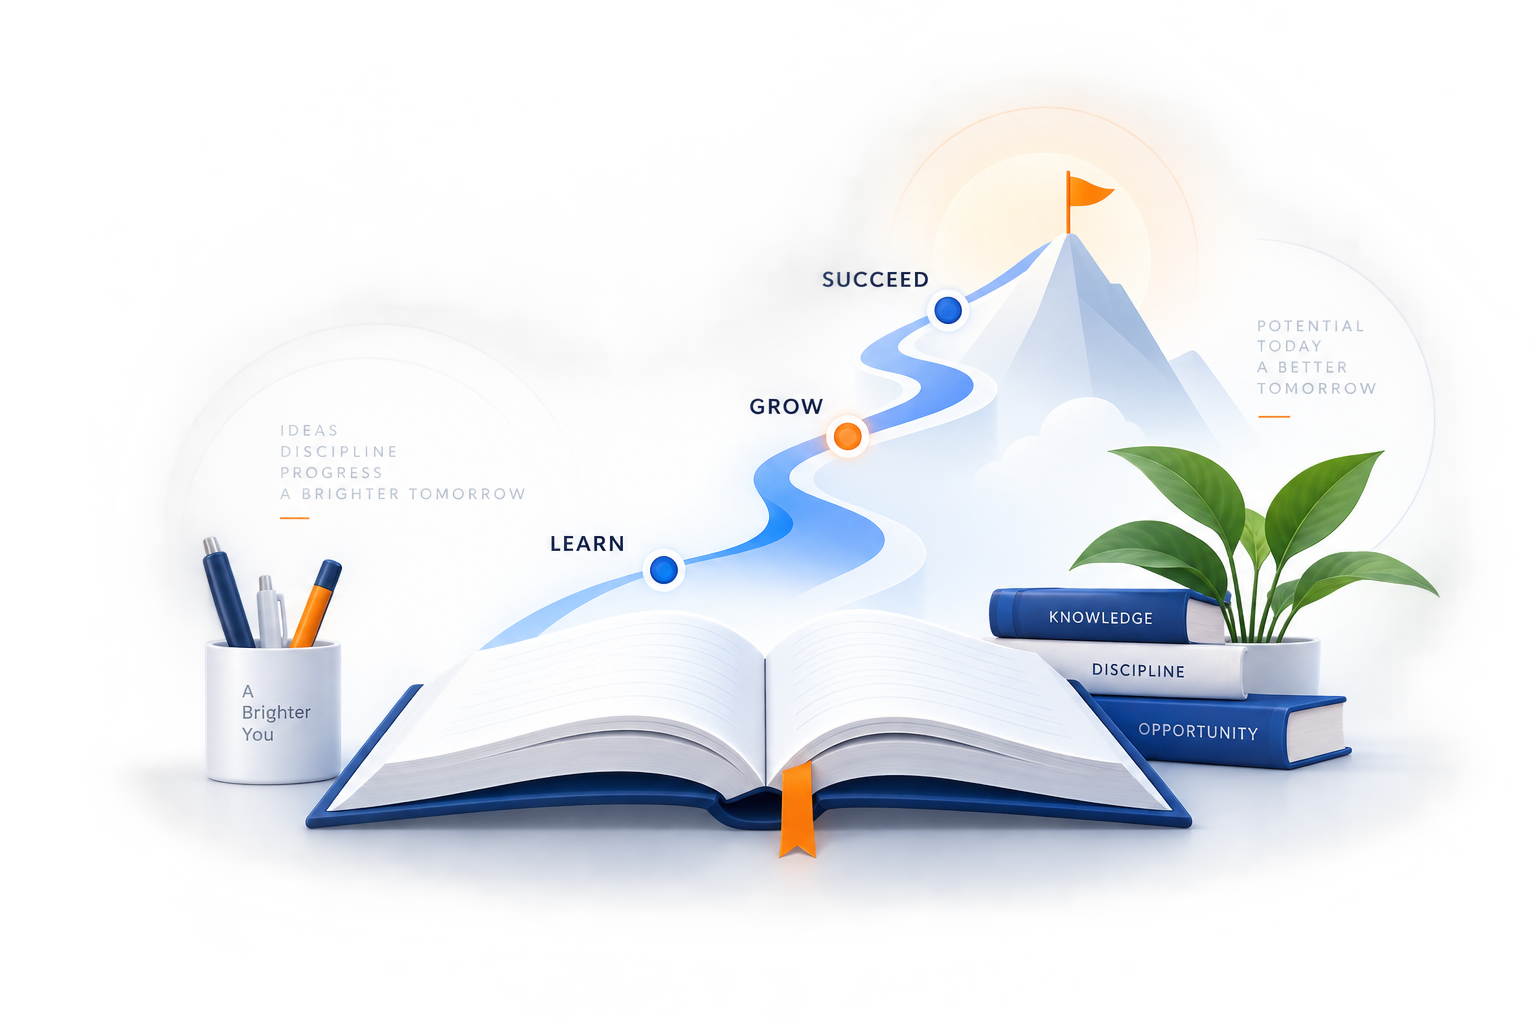
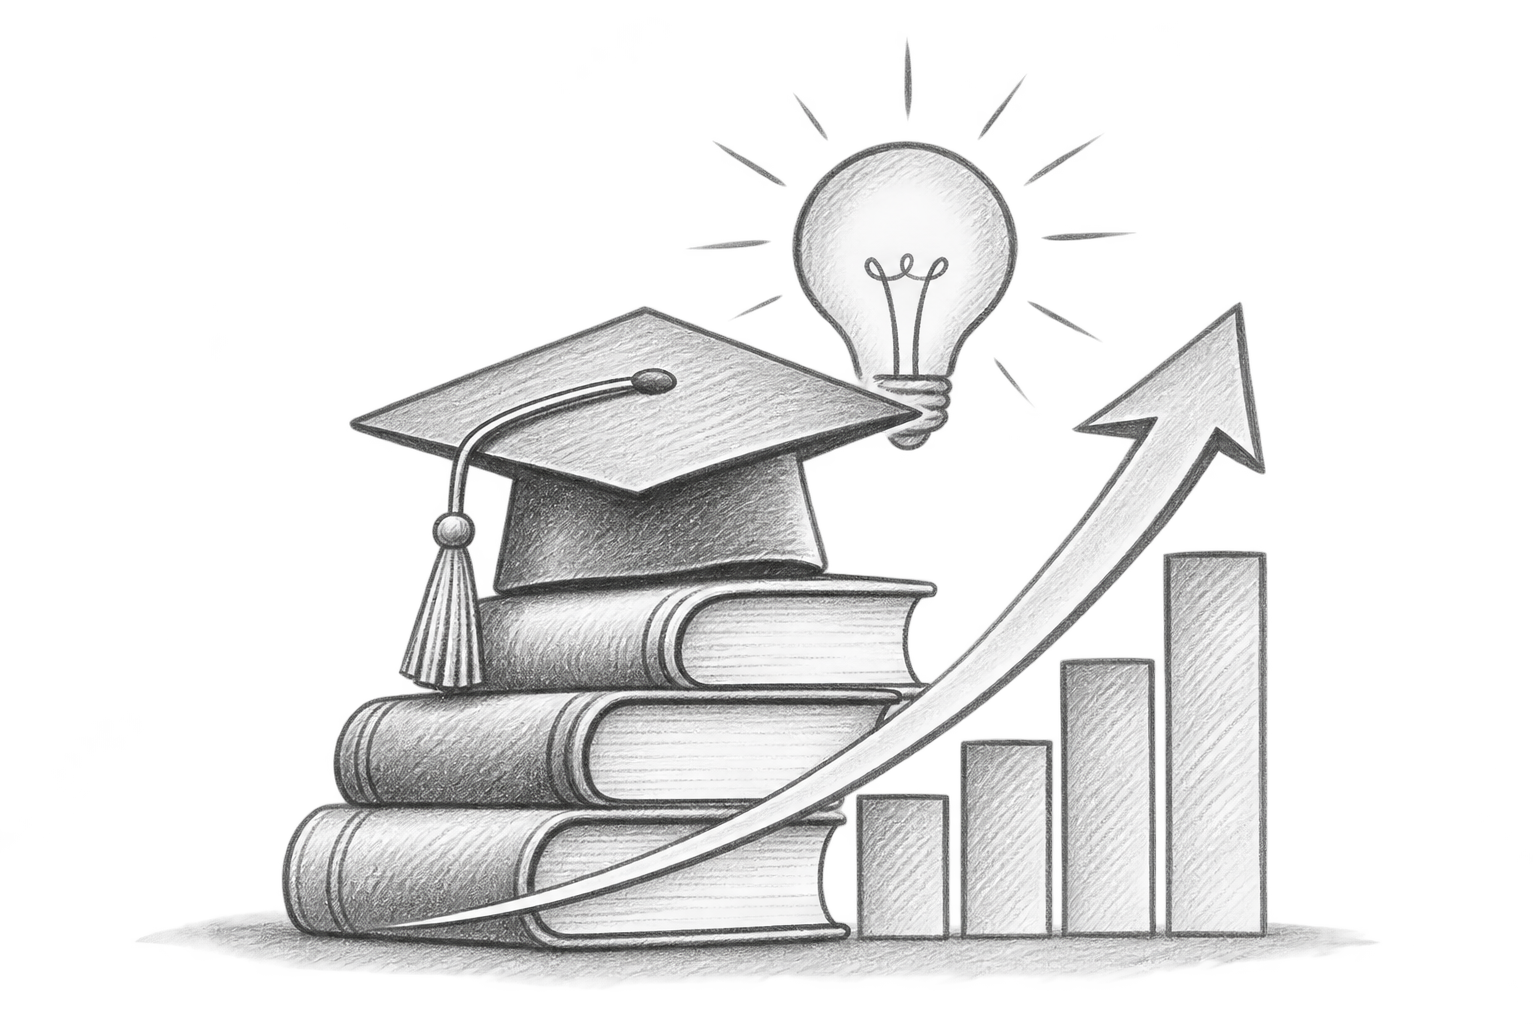
final update

diff --git a/src/app/about/page.tsx b/src/app/about/page.tsx
@@ -16,22 +16,29 @@ export default function AboutPage() {
 
   const team = [
     {
+      name: "Vijay Verma",
+      department: "Branch Head - Mangolpuri",
+      imageUrl: "/vijay.png",
+      imageAlt: "Vijay Verma",
+      hoverBorder: "hover:border-[#155EEF]/30",
+    },
+    {
       name: "Manish Kumar",
-      department: "Innovation & Technology",
+      department: "Branch Head - Krishan Vihar",
       imageUrl: "/manish.png",
       imageAlt: "Manish Kumar",
       hoverBorder: "hover:border-[#1D4ED8]/30",
     },
     {
       name: "Chandra Prakash",
-      department: "Creative Vision",
+      department: "Branch Head - Budh Vihar",
       imageUrl: "/chandu.png",
       imageAlt: "Chandra Prakash",
       hoverBorder: "hover:border-[#EA580C]/30",
     },
     {
       name: "Vidhi Sharma",
-      department: "Stories & Ideas",
+      department: "Branch Head - Mukherjee Nagar",
       imageUrl: "/vidhi.png",
       imageAlt: "Vidhi Sharma",
       hoverBorder: "hover:border-emerald-600/30",
@@ -46,30 +53,28 @@ export default function AboutPage() {
           member.hoverBorder
         )}
       >
-        {/* Portrait Frame: Compact framed square on mobile (controlled height without cropping head or hands), full-bleed square on tablet/desktop */}
-        <div className="w-full bg-[#F1F5F9]/80 dark:bg-slate-800/60 px-4 pt-4 pb-3 md:p-0 border-b border-slate-100 dark:border-slate-800/80">
-          <div className="relative w-full max-w-[216px] sm:max-w-[232px] md:max-w-none mx-auto aspect-square overflow-hidden rounded-xl md:rounded-none bg-slate-100 dark:bg-slate-800/80 ring-1 ring-slate-900/[0.06] md:ring-0">
-            <Image
-              src={member.imageUrl}
-              alt={member.imageAlt}
-              fill
-              priority
-              sizes="(max-width: 640px) 216px, (max-width: 768px) 232px, (max-width: 1200px) 32vw, 320px"
-              className="object-cover object-[50%_20%] grayscale contrast-[1.04] transition-transform duration-500 ease-out group-hover:scale-[1.02]"
-            />
-          </div>
+        {/* Full-Bleed Square Portrait Frame (Consistent across mobile horizontal scroll & desktop 4-col grid without cropping head or hands) */}
+        <div className="relative w-full aspect-square overflow-hidden bg-slate-100 dark:bg-slate-800/80 border-b border-slate-100 dark:border-slate-800/80">
+          <Image
+            src={member.imageUrl}
+            alt={member.imageAlt}
+            fill
+            priority
+            sizes="(max-width: 768px) 268px, (max-width: 1024px) 45vw, 280px"
+            className="object-cover object-[50%_20%] grayscale contrast-[1.04] transition-transform duration-500 ease-out group-hover:scale-[1.02]"
+          />
         </div>
 
         {/* Clean, Minimal Profile Info Area */}
-        <div className="flex flex-1 flex-col items-center p-4 sm:p-5 md:p-4 lg:p-5 text-center">
+        <div className="flex flex-1 flex-col items-center p-4 lg:px-3.5 lg:py-4 xl:p-5 text-center">
           {/* Member Name */}
-          <h3 className="text-[18px] sm:text-[19px] md:text-[18px] lg:text-[20px] font-extrabold tracking-[-0.015em] leading-snug text-[#0B224D] dark:text-white">
+          <h3 className="text-[18px] sm:text-[19px] lg:text-[17.5px] xl:text-[19px] font-extrabold tracking-[-0.015em] leading-snug text-[#0B224D] dark:text-white">
             {member.name}
           </h3>
 
           {/* Department Label */}
           <div className="mt-auto pt-3 w-full">
-            <p className="pt-2.5 border-t border-slate-100 dark:border-slate-800/80 text-[12.5px] md:text-[12px] lg:text-[13px] font-medium tracking-[0.005em] text-[#475E82] dark:text-slate-400 truncate">
+            <p className="pt-2.5 border-t border-slate-100 dark:border-slate-800/80 text-[12.5px] lg:text-[11.5px] xl:text-[12.5px] font-medium tracking-[0.005em] text-[#475E82] dark:text-slate-400 truncate">
               {member.department}
             </p>
           </div>
@@ -168,19 +173,19 @@ export default function AboutPage() {
                 }}
               />
 
-              {/* Proportionate Natural-Ratio 3D Visual Container */}
+              {/* Proportionate Natural-Ratio Hero Visual Container (1536x1024 -> 3:2) */}
               <motion.div
                 animate={{ y: [0, -3, 0] }}
                 transition={{ duration: 6, repeat: Infinity, ease: "easeInOut" }}
-                className="relative w-full max-w-[260px] min-[390px]:max-w-[285px] sm:max-w-[330px] md:max-w-[360px] lg:w-[410px] lg:max-w-none xl:w-[445px] aspect-[901/767] flex items-center justify-center"
+                className="relative w-full max-w-[300px] min-[390px]:max-w-[325px] sm:max-w-[380px] md:max-w-[420px] lg:w-[460px] lg:max-w-none xl:w-[500px] aspect-[3/2] flex items-center justify-center"
               >
                 <Image
-                  src="/about-growth-hero.png"
+                  src="/about.png"
                   alt="Transforming Student Potential - IDL Education"
                   fill
                   priority
-                  sizes="(max-width: 640px) 285px, (max-width: 1024px) 360px, 445px"
-                  className="object-contain object-center select-none"
+                  sizes="(max-width: 640px) 325px, (max-width: 1024px) 420px, 500px"
+                  className="object-contain object-center select-none dark:invert dark:opacity-90"
                 />
               </motion.div>
             </motion.div>
@@ -209,7 +214,7 @@ export default function AboutPage() {
       </div>
 
       {/* 2B. MEET OUR FOUNDER — FULL-WIDTH DARK NAVY PROFILE SECTION */}
-      <section className="w-full relative overflow-hidden bg-gradient-to-b from-[#040B1C] via-[#06122B] to-[#030918] py-9 sm:py-11 md:py-14 lg:py-16 border-y border-white/[0.06]">
+      <section className="w-full relative overflow-hidden bg-gradient-to-b from-[#040B1C] via-[#06122B] to-[#030918] py-7 sm:py-9 md:py-14 lg:py-16 border-y border-white/[0.06]">
         {/* Subtle IDL Navy/Blue Ambient Depth */}
         <div
           aria-hidden="true"
@@ -223,17 +228,17 @@ export default function AboutPage() {
         <div className="container mx-auto px-4 md:px-6 relative z-10">
           {/* Balanced Horizontal Founder Profile Composition */}
           <div className="max-w-[980px] mx-auto">
-            <div className="relative rounded-2xl bg-gradient-to-br from-[#0B1938]/90 via-[#08142E]/95 to-[#061026]/95 border border-white/[0.08] shadow-[0_18px_44px_-16px_rgba(0,0,0,0.6),inset_0_1px_0_rgba(255,255,255,0.07)] p-5 sm:p-7 md:p-9 lg:p-10">
-              <div className="flex flex-col md:flex-row items-center gap-5 sm:gap-6 md:gap-8 lg:gap-10">
+            <div className="relative rounded-2xl bg-gradient-to-br from-[#0B1938]/90 via-[#08142E]/95 to-[#061026]/95 border border-white/[0.08] shadow-[0_18px_44px_-16px_rgba(0,0,0,0.6),inset_0_1px_0_rgba(255,255,255,0.07)] p-4 sm:p-6 md:p-9 lg:p-10">
+              <div className="flex flex-col md:flex-row items-center gap-3.5 sm:gap-5 md:gap-8 lg:gap-10">
                 {/* Left: Natural-Aspect Founder Portrait Frame */}
-                <div className="w-[215px] min-[390px]:w-[228px] sm:w-[248px] md:w-[270px] lg:w-[295px] shrink-0">
+                <div className="w-[230px] min-[390px]:w-[244px] sm:w-[264px] md:w-[270px] lg:w-[295px] shrink-0">
                   <div className="relative w-full aspect-[11/12] overflow-hidden rounded-xl bg-[#EBF3FF] ring-1 ring-white/15 shadow-[0_12px_28px_-10px_rgba(2,6,23,0.75)]">
                     <Image
                       src="/director.png"
                       alt="Amod Sharma"
                       fill
                       priority
-                      sizes="(max-width: 640px) 228px, (max-width: 1024px) 270px, 295px"
+                      sizes="(max-width: 640px) 244px, (max-width: 1024px) 270px, 295px"
                       className="object-cover object-top"
                     />
                     <div
@@ -249,21 +254,21 @@ export default function AboutPage() {
                     <h3 className="text-[22px] sm:text-[26px] md:text-[28px] lg:text-[30px] font-extrabold uppercase tracking-[0.025em] leading-tight text-white">
                       AMOD SHARMA
                     </h3>
-                    <p className="mt-1.5 text-[13.5px] sm:text-[14.5px] lg:text-[16px] font-semibold tracking-[0.05em] text-[#60A5FA]">
+                    <p className="mt-1 md:mt-1.5 text-[13.5px] sm:text-[14.5px] lg:text-[16px] font-semibold tracking-[0.05em] text-[#60A5FA]">
                       Founder & CEO
                     </p>
                   </div>
 
                   {/* Integrated Editorial Quote Block */}
-                  <blockquote className="mt-4 sm:mt-5 relative border-l-[2.5px] border-[#3B82F6] bg-gradient-to-r from-[#3B82F6]/[0.07] via-white/[0.02] to-transparent rounded-r-lg pl-4 pr-3 py-2.5 sm:pl-5 sm:pr-4 sm:py-3.5 text-left">
+                  <blockquote className="mt-3 sm:mt-4 md:mt-5 relative border-l-[2.5px] border-[#3B82F6] bg-gradient-to-r from-[#3B82F6]/[0.07] via-white/[0.02] to-transparent rounded-r-lg pl-3.5 pr-2.5 py-2 sm:pl-5 sm:pr-4 sm:py-3 md:py-3.5 text-left">
                     <svg
                       aria-hidden="true"
-                      className="w-4 h-4 sm:w-[18px] sm:h-[18px] text-[#60A5FA]/50 mb-1.5 fill-current"
+                      className="w-4 h-4 sm:w-[18px] sm:h-[18px] text-[#60A5FA]/50 mb-1 md:mb-1.5 fill-current"
                       viewBox="0 0 24 24"
                     >
                       <path d="M14.017 21v-7.391c0-5.704 3.731-9.57 8.983-10.609l.995 2.151c-2.432.917-3.995 3.638-3.995 5.849h4v10h-9.983zm-14.017 0v-7.391c0-5.704 3.748-9.57 9-10.609l.996 2.151c-2.433.917-3.996 3.638-3.996 5.849h3.983v10h-9.983z" />
                     </svg>
-                    <p className="text-[14.5px] sm:text-[15.5px] lg:text-[17px] font-medium text-slate-200/95 leading-[1.7] tracking-[0.005em]">
+                    <p className="text-[14px] sm:text-[15.5px] lg:text-[17px] font-medium text-slate-200/95 leading-[1.62] md:leading-[1.7] tracking-[0.005em]">
                       &ldquo;My vision is to make quality education more accessible, meaningful, and transformative—empowering every student to dream bigger, learn better, and build a brighter future.&rdquo;
                     </p>
                   </blockquote>
@@ -295,10 +300,15 @@ export default function AboutPage() {
             </h2>
           </div>
 
-          {/* Responsive Leadership Grid: Compact vertical stack on mobile, balanced 3-column grid on tablet/desktop */}
-          <div className="grid grid-cols-1 md:grid-cols-3 gap-4 sm:gap-5 lg:gap-7 max-w-[340px] sm:max-w-[380px] md:max-w-5xl mx-auto items-stretch">
+          {/* Responsive Leadership Showcase: Smooth horizontal scroll on mobile, 2x2 on tablet, 4-column single row on desktop */}
+          <div className="-mx-4 px-4 sm:-mx-6 sm:px-6 md:mx-auto md:px-0 pt-1 pb-3 md:py-0 flex md:grid md:grid-cols-2 lg:grid-cols-4 gap-4 sm:gap-5 lg:gap-6 md:max-w-2xl lg:max-w-[1180px] overflow-x-auto md:overflow-visible snap-x snap-mandatory scroll-px-4 sm:scroll-px-6 items-stretch [scrollbar-width:none] [-ms-overflow-style:none] [&::-webkit-scrollbar]:hidden">
             {team.map((member) => (
-              <TeamCard key={member.name} member={member} />
+              <div
+                key={member.name}
+                className="w-[74vw] max-w-[268px] sm:w-[280px] md:w-auto md:max-w-none shrink-0 snap-start"
+              >
+                <TeamCard member={member} />
+              </div>
             ))}
           </div>
         </div>
